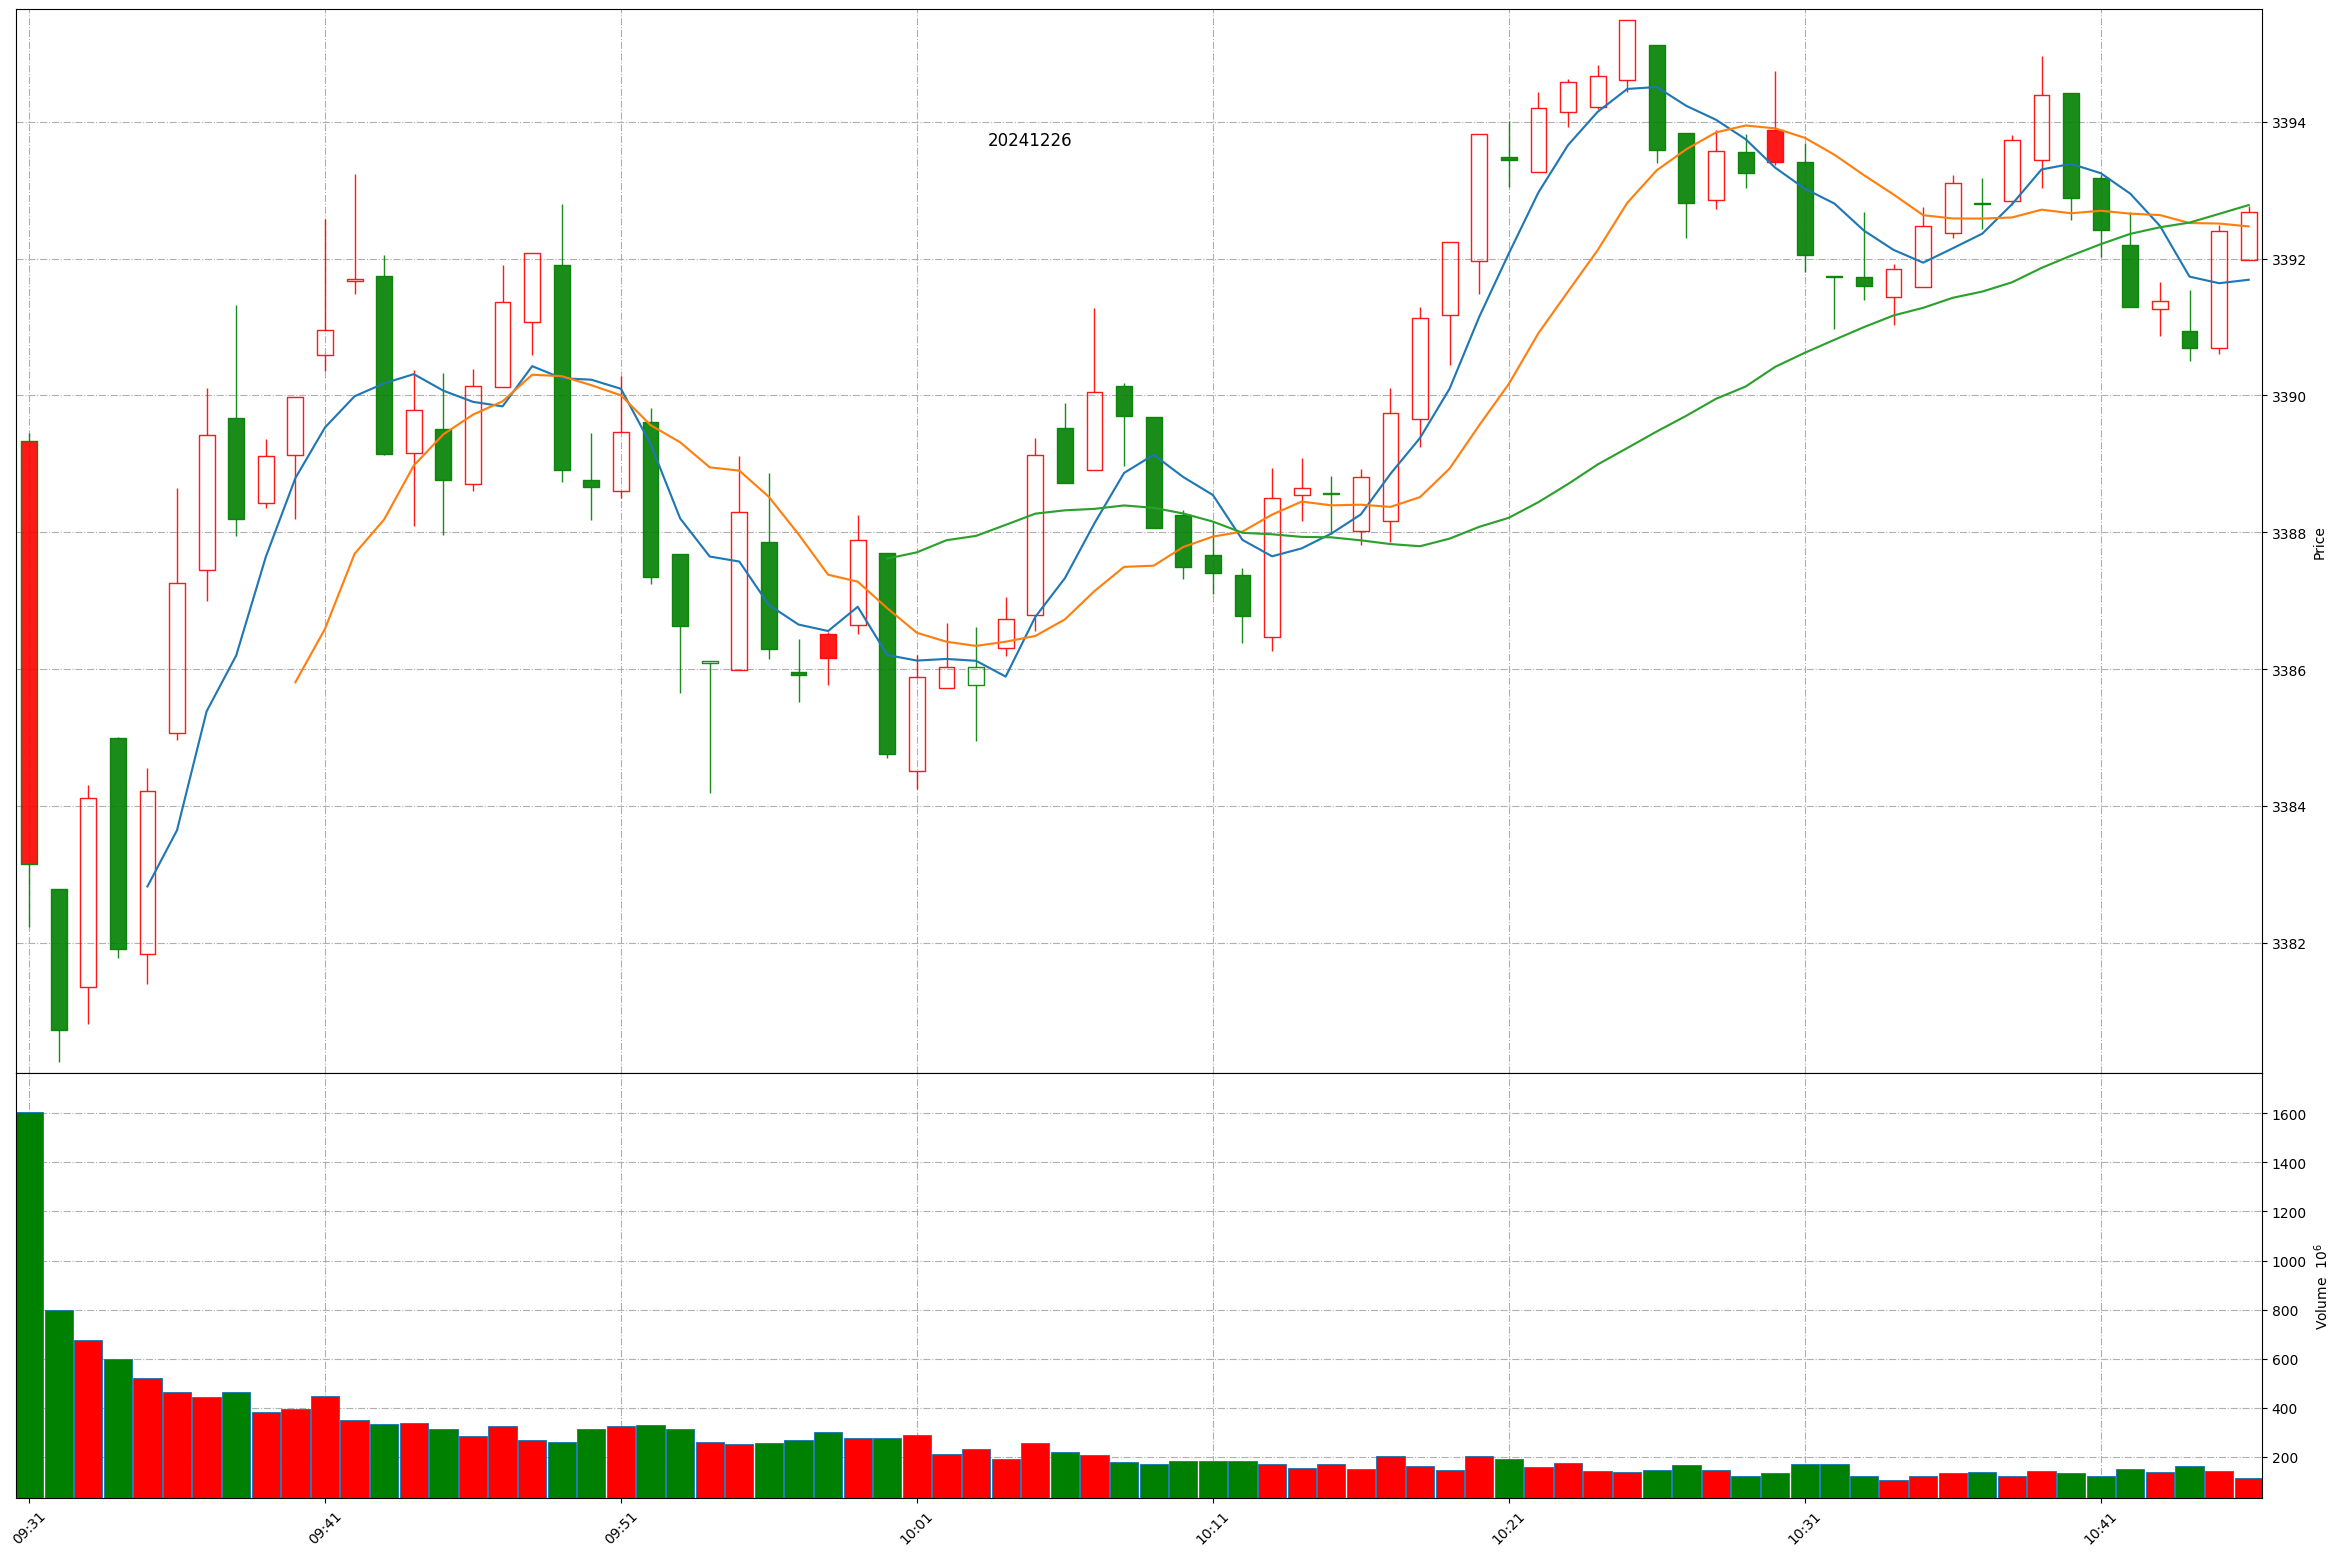
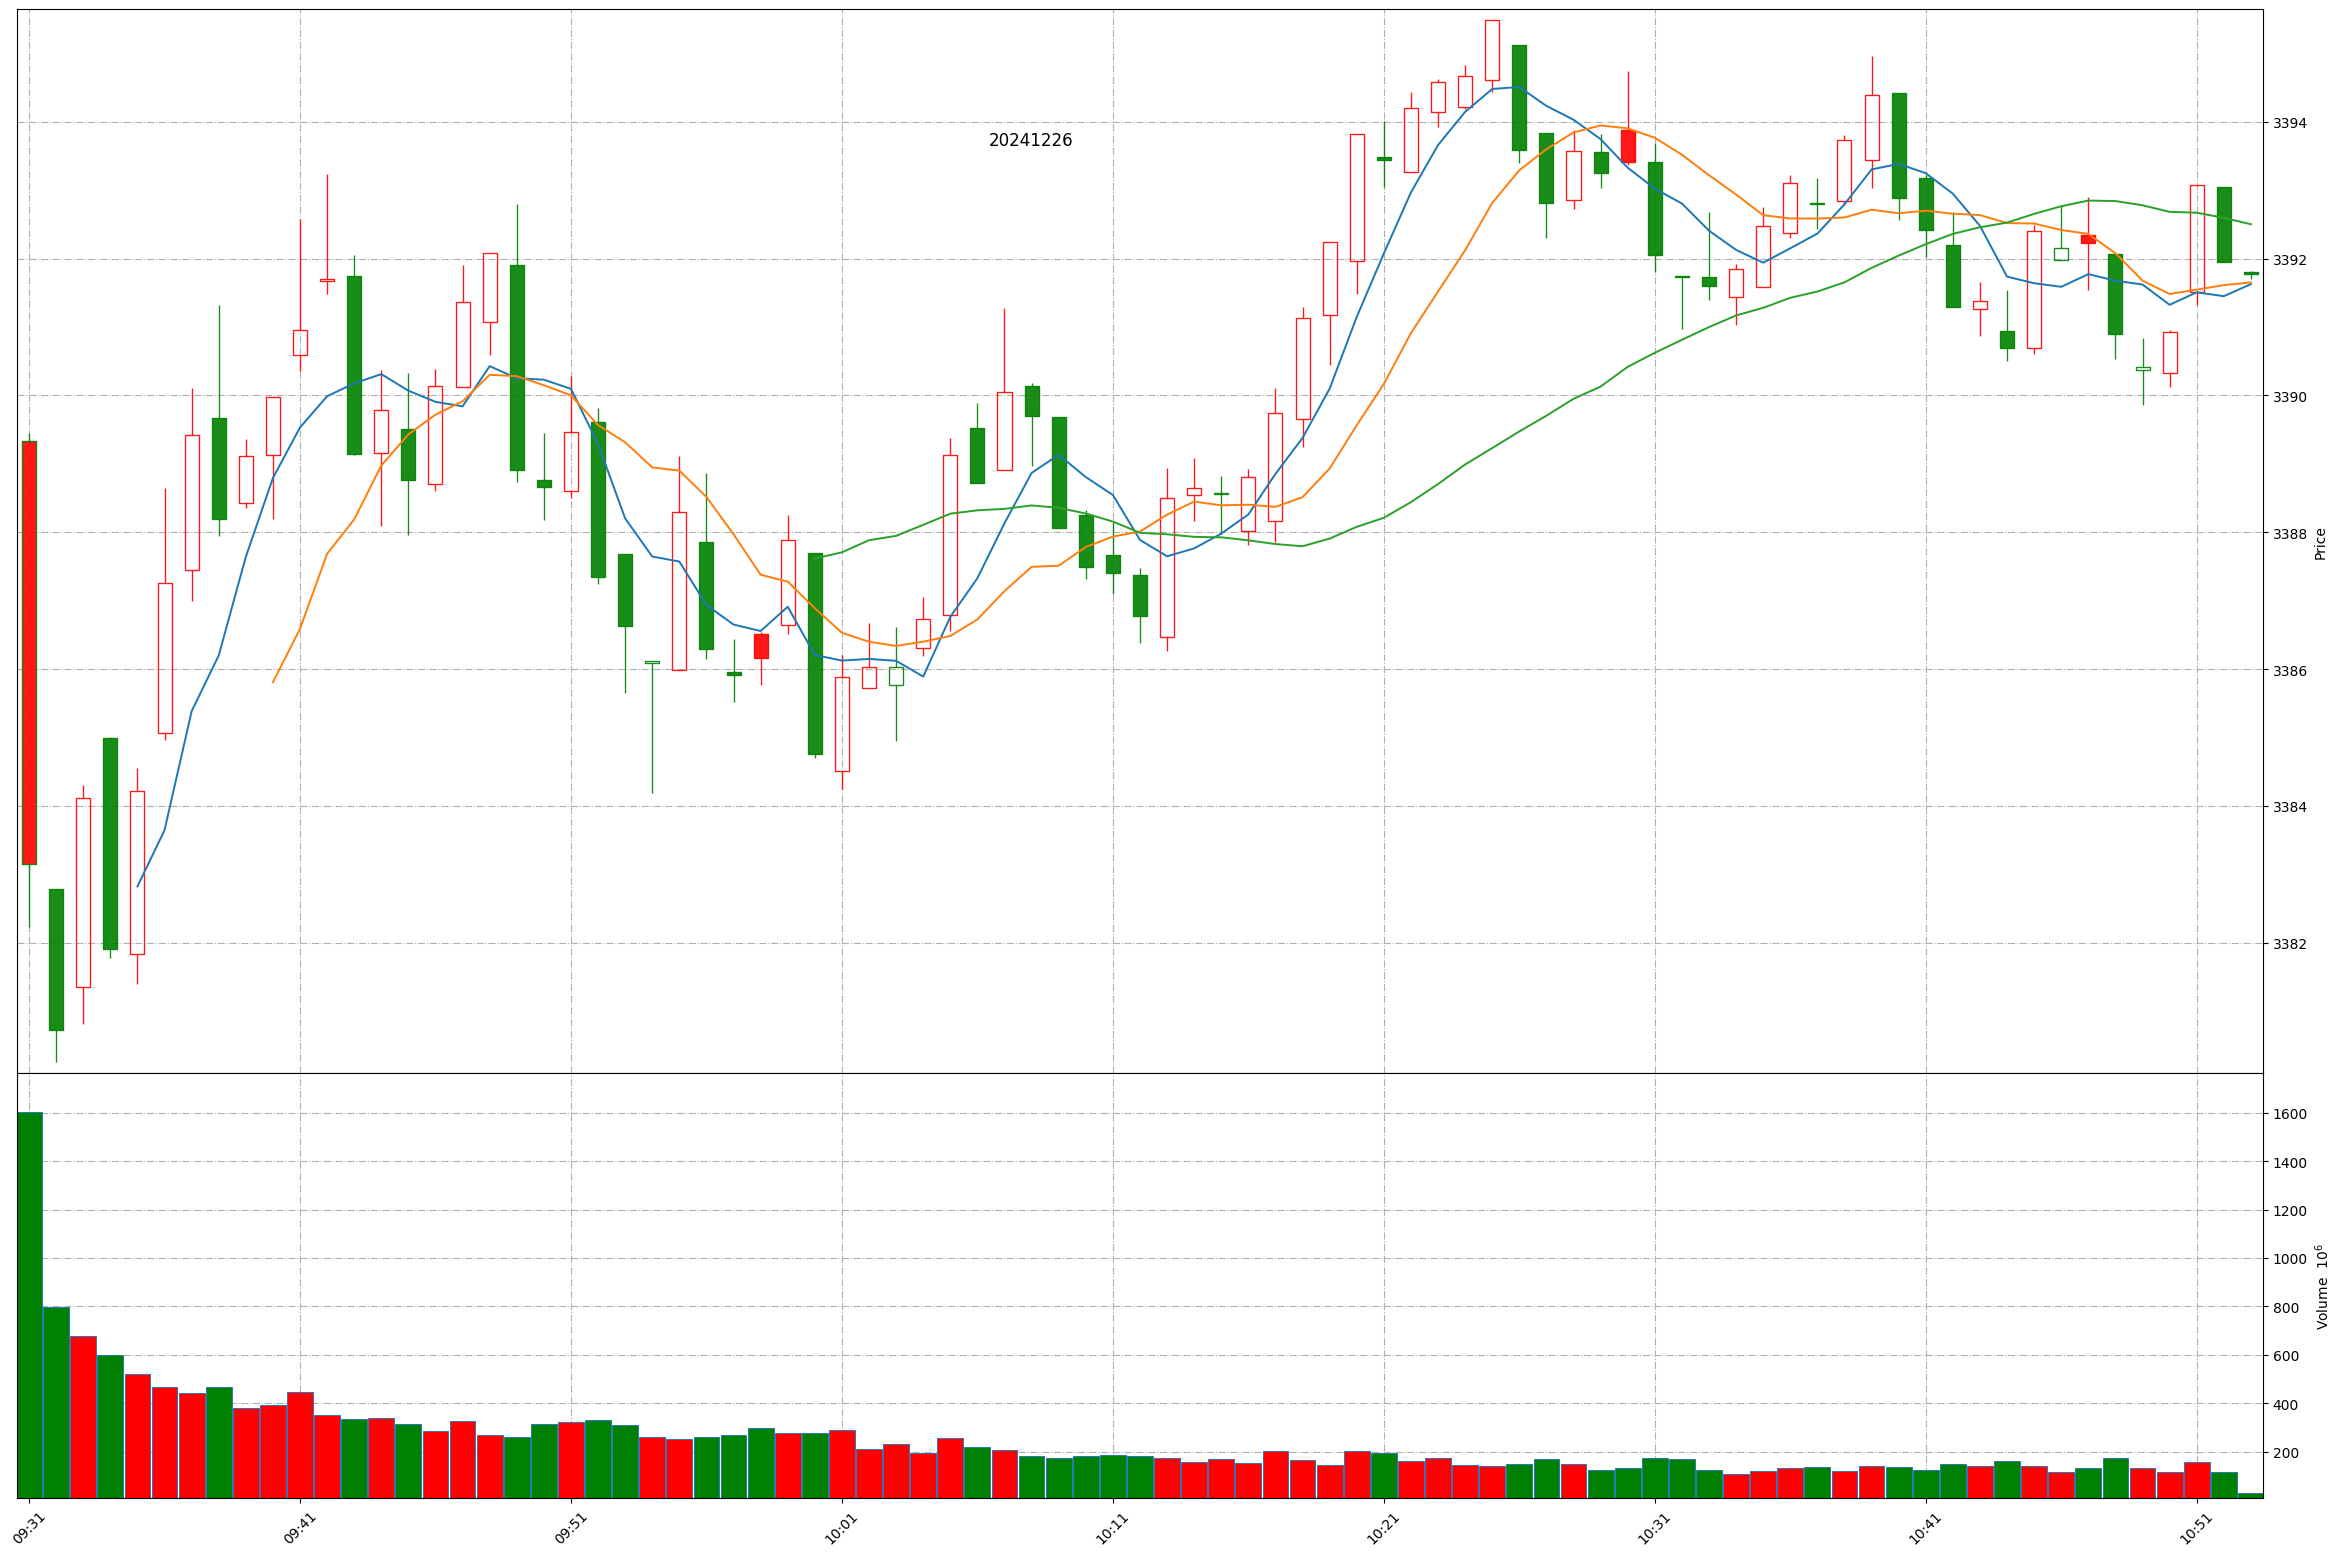
Github action update at 2024-12-26 10:52:26.

diff --git a/README.md b/README.md
@@ -1,11 +1,11 @@
 
 # Daily-A-share-market-quotes 每日 A 股指数（5min 更新）- 20241226
 
-### 上证指数 20241226 10:46
+### 上证指数 20241226 10:52
 ![](./fig/2024/12/20241226-sh000001.png)
 
-### 深证成指 20241226 10:46
+### 深证成指 20241226 10:52
 ![](./fig/2024/12/20241226-sz399001.png)
 
-### 北证50 20241226 10:46
+### 北证50 20241226 10:52
 ![](./fig/2024/12/20241226-bj899050.png)
